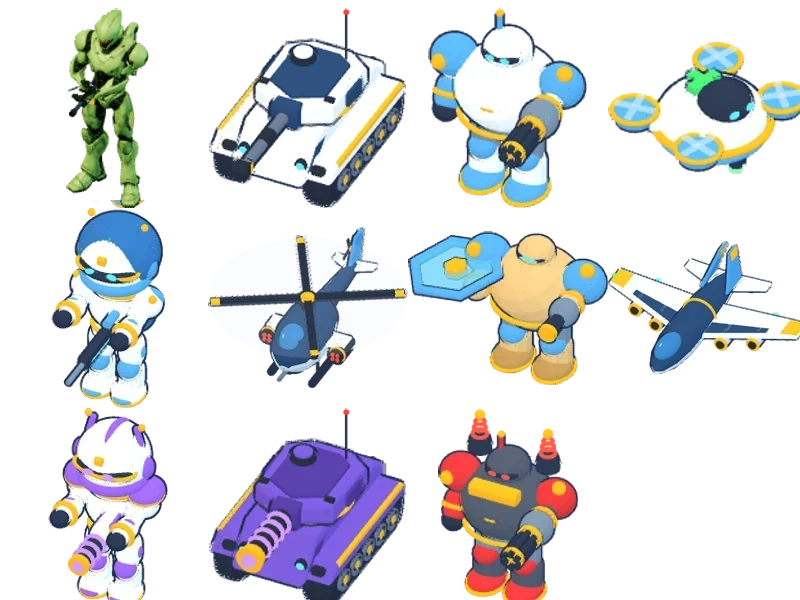
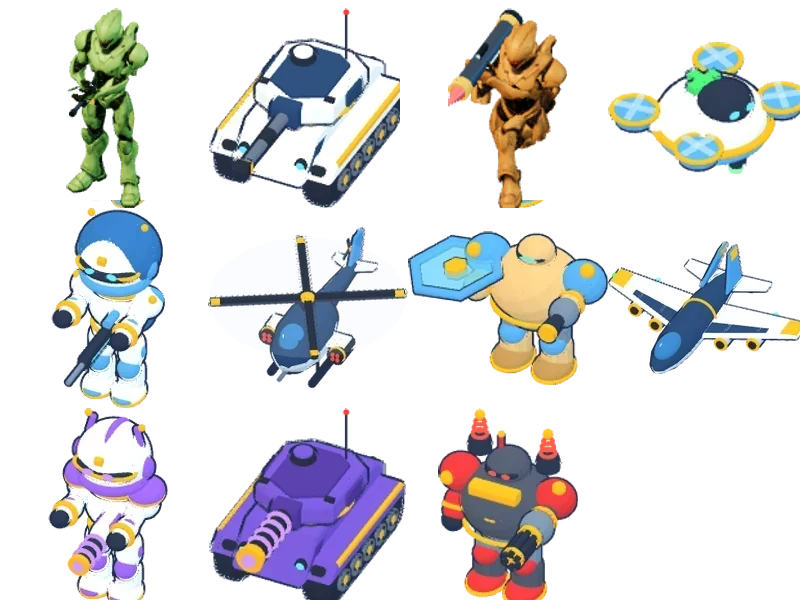
หุ่นรบ becomes an android rocket trooper: kneels to fire a shoulder launcher, rockets splash and hit ground and air, range 3.2 (patch 231)
Claude-Session: https://claude.ai/code/session_01ENEEn5GFJwhnH2TVtQL75A

Changed region(s): [[0.5, 0.0, 0.75, 0.36]]

diff --git a/features/render3d/rocket430/rocket3d.html b/features/render3d/rocket430/rocket3d.html
@@ -1,0 +1,82 @@
+<!doctype html><html><body style="margin:0;background:transparent">
+<canvas id="c" width="240" height="256"></canvas>
+<script type="importmap">{"imports":{"three":"/three/build/three.module.js","three/addons/":"/three/examples/jsm/"}}</script>
+<script type="module">
+// 430: หุ่นรบ = the owner's android as a rocket trooper (kneels to fire, rockets hit ground and air). Based on 402: ranger = the owner's android (rigged ATLAS-09 skeleton, staging/titan/forge/models/android-nova.glb)
+// carrying a modelled assault rifle. Same camera/lights/facing as units3d.html: unit faces local +x, yaw = -gridAngle.
+// Arms are placed on the rifle with two-bone IK after the clip pose (Sentinel idle, Walk, aim+recoil, Collapse).
+import * as T from 'three';import {GLTFLoader} from 'three/addons/loaders/GLTFLoader.js';
+const canvas=document.getElementById('c');
+const R=new T.WebGLRenderer({canvas,antialias:true,alpha:true,preserveDrawingBuffer:true});
+R.setClearColor(0,0);R.outputColorSpace=T.SRGBColorSpace;R.toneMapping=T.ACESFilmicToneMapping;R.toneMappingExposure=1.15;
+const S=new T.Scene();
+const cam=new T.OrthographicCamera(-1.6,1.6,2.35,-1.05,0.1,100);
+S.add(new T.HemisphereLight(0xfff6e8,0x5571a3,2.2));
+const sun=new T.DirectionalLight(0xfff0d6,3.4);sun.position.set(-3,10,7);S.add(sun);
+const rim=new T.DirectionalLight(0x9fe3ff,1.8);rim.position.set(7,3,-5);S.add(rim);
+const params=new URLSearchParams(location.search);
+const gltf=await new GLTFLoader().loadAsync(params.get('model'));
+const model=gltf.scene;const box=new T.Box3().setFromObject(model),size=box.getSize(new T.Vector3());
+const H=1.85,sc=H/size.y;model.scale.setScalar(sc);
+const wrap=new T.Group();wrap.rotation.y=Math.PI/2;S.add(wrap);wrap.add(model);
+const bones={};model.traverse(o=>{if(o.isBone)bones[o.name.replace(/[^a-zA-Z.]/g,'').replace('handL','hand.L')]=o;});
+const bn=n=>model.getObjectByName(n)||model.getObjectByName(T.PropertyBinding.sanitizeNodeName(n));
+const B={};for(const n of ['root','pelvis','chest','head','upper_arm.L','forearm.L','hand.L','upper_arm.R','forearm.R','hand.R','shoulder.L','shoulder.R','thigh.L','thigh.R'])B[n]=bn(n);
+window.boneNames=()=>Object.fromEntries(Object.entries(B).map(([k,v])=>[k,!!v]));
+let KF=+(params.get('kf')||0.5);let mat=null;model.traverse(o=>{if(o.isMesh){o.frustumCulled=false;mat=o.material;}});
+const tint=new T.Color(params.get('tint')||'#ff9f43');if(mat){mat.color.copy(tint);mat.roughness=Math.max(.35,mat.roughness||.6);}
+window.setTint=c=>{mat.color.set(c);};
+const mixer=new T.AnimationMixer(model);const clips={};for(const c of gltf.animations)clips[c.name]=c;
+// --- shoulder rocket launcher (chunky tube, visible warhead) ---
+const gun=new T.Group();const GM=new T.MeshStandardMaterial({color:0x4b5a6e,metalness:.55,roughness:.38}),GA=new T.MeshStandardMaterial({color:0xffb23e,metalness:.2,roughness:.45}),GD=new T.MeshStandardMaterial({color:0x26303c,metalness:.5,roughness:.5}),GL=new T.MeshBasicMaterial({color:0x7ff0ff}),WR=new T.MeshStandardMaterial({color:0xf2545b,metalness:.2,roughness:.4});
+const bx=(w,h,d,m,x,y,z)=>{const e=new T.Mesh(new T.BoxGeometry(w,h,d),m);e.position.set(x,y,z);gun.add(e);return e;};
+const cy=(r,l,m,x,y,z)=>{const e=new T.Mesh(new T.CylinderGeometry(r,r,l,20),m);e.rotation.x=Math.PI/2;e.position.set(x,y,z);gun.add(e);return e;};
+// launcher local: +z forward, +y up, origin at the shoulder rest
+cy(.075,.95,GM,0,0,.12);                 // main tube
+cy(.088,.10,GA,0,0,.58);                 // front ring (accent)
+cy(.088,.10,GA,0,0,-.33);                // rear ring (accent)
+cy(.095,.05,GD,0,0,-.38);                // rear bell
+const war=new T.Mesh(new T.ConeGeometry(.07,.2,18),WR);war.rotation.x=Math.PI/2;war.position.set(0,0,.72);gun.add(war); // rocket nose
+bx(.05,.12,.05,GD,0,-.11,.08);           // grip
+bx(.05,.10,.05,GD,0,-.10,.32);           // front grip
+bx(.04,.06,.14,GD,.0,.10,.18);           // sight box
+const lens=new T.Mesh(new T.CylinderGeometry(.02,.02,.01,12),GL);lens.rotation.x=Math.PI/2;lens.position.set(0,.10,.255);gun.add(lens);
+bx(.02,.02,.30,GL,.08,0,.1);             // glowing side strip
+const muzzle=new T.Object3D();muzzle.position.set(0,0,.82);gun.add(muzzle);
+const flash=new T.Mesh(new T.SphereGeometry(.1,14,10),new T.MeshBasicMaterial({color:0xffe08a,transparent:true,opacity:.95}));flash.visible=false;gun.add(flash);
+const gripR=new T.Object3D();gripR.position.set(0,-.17,.08);gun.add(gripR);const gripL=new T.Object3D();gripL.position.set(0,-.15,.32);gun.add(gripL);
+const GS=0.9;gun.scale.setScalar(GS);
+model.add(gun);// placed in model space every frame
+// --- two-bone IK (CCD, a few passes) ---
+const tmp=new T.Vector3(),tq=new T.Quaternion(),ta=new T.Vector3(),tb=new T.Vector3();
+function reach(chain,end,target,iters=12){for(let it=0;it<iters;it++){for(let i=chain.length-1;i>=0;i--){const j=chain[i];j.updateMatrixWorld(true);
+ const jp=j.getWorldPosition(new T.Vector3()),ep=end.getWorldPosition(new T.Vector3());ta.copy(ep).sub(jp).normalize();tb.copy(target).sub(jp).normalize();
+ const ang=Math.acos(Math.min(1,Math.max(-1,ta.dot(tb))));if(ang<1e-4)continue;const axis=new T.Vector3().crossVectors(ta,tb).normalize();
+ const wq=j.getWorldQuaternion(new T.Quaternion());const inv=wq.clone().invert();axis.applyQuaternion(inv);j.quaternion.multiply(tq.setFromAxisAngle(axis,Math.min(ang,.5)));j.updateMatrixWorld(true);}}}
+// hand ends: a point a little beyond the hand bone
+const endR=new T.Object3D(),endL=new T.Object3D();B['hand.R'].add(endR);B['hand.L'].add(endL);
+function placeGun(kind,rec){// gun pose relative to chest, in model space
+ model.updateMatrixWorld(true);const c=B.chest.getWorldPosition(new T.Vector3());const inv=model.matrixWorld.clone().invert();const cm=c.clone().applyMatrix4(inv);
+ const s=1/sc;// model units per world unit
+ if(kind==='aim'){const sh=B['upper_arm.R'].getWorldPosition(new T.Vector3()).applyMatrix4(inv);gun.position.set(sh.x+0.02*s,sh.y+0.07*s,sh.z+0.0*s-rec*0.08*s);gun.rotation.set(-0.12-rec*0.22,0,0);}
+ else if(kind==='carry'){const sh=B['upper_arm.R'].getWorldPosition(new T.Vector3()).applyMatrix4(inv);gun.position.set(sh.x+0.02*s,sh.y+0.06*s,sh.z-0.05*s);gun.rotation.set(-0.55,0,0);}
+ gun.scale.setScalar(GS*s);
+ model.updateMatrixWorld(true);
+ const gR=gripR.getWorldPosition(new T.Vector3()),gL=gripL.getWorldPosition(new T.Vector3());
+ reach([B['upper_arm.R'],B['forearm.R']],B['hand.R'],gR);reach([B['upper_arm.L'],B['forearm.L']],B['hand.L'],gL);}
+function clip(name,t){mixer.stopAllAction();const c=clips[name];if(!c)return;const a=mixer.clipAction(c);a.reset().play();a.paused=false;mixer.setTime(Math.min(c.duration*0.999,t*c.duration));}
+window.pose=(dirA,anim,f)=>{
+ wrap.rotation.y=Math.PI/2-dirA;wrap.rotation.z=0;wrap.position.set(0,0,0);flash.visible=false;gun.visible=true;
+ if(anim==='idle'){clip('Sentinel',f/4);placeGun('carry',0);}
+ else if(anim==='walk'){clip('Walk',f/8);placeGun('carry',0);}
+ else if(anim==='attack'){clip('KneelFire',KF);const rec=[0,1,.45,.12][f];placeGun('aim',rec);}// shot flash is drawn by the game
+ else if(anim==='death'){clip('Collapse',Math.min(1,f/4*0.95));B.root.position.x*=0.3;B.root.position.z*=0.3;placeGun('carry',0);gun.visible=f<3;}
+ wrap.updateMatrixWorld(true);model.updateMatrixWorld(true);
+ R.render(S,cam);const v=muzzle.getWorldPosition(new T.Vector3()),pv=v.clone().project(cam),o=new T.Vector3(0,0,0).project(cam);
+ return {img:canvas.toDataURL('image/png'),mx:(pv.x+1)/2*canvas.width,my:(1-pv.y)/2*canvas.height,ox:(o.x+1)/2*canvas.width,oy:(1-o.y)/2*canvas.height};
+};
+window.setZoom=z=>{cam.zoom=z;cam.position.set(10,16.04,10);cam.lookAt(0,0.9-(z-1)*1.7,0);cam.updateProjectionMatrix();};
+window.setZoom(+(params.get('zoom')||1.45));
+window.clipNames=()=>Object.keys(clips);
+window.setKF=v=>{KF=v;};window.ready=true;
+</script></body></html>

diff --git a/features/rocket430/rocket430.js b/features/rocket430/rocket430.js
@@ -1,0 +1,6 @@
+// 430: หุ่นรบ (kind 2) is now an android rocket trooper: kneels to fire a shoulder rocket launcher (KneelFire clip,
+// art from features/render3d/rocket430), rockets splash and hit both ground and air (weapon 'missile' passes canDamage285).
+// Range grows from melee 1.2 to 3.2 tiles; slower, heavier shots keep its damage per second about the same.
+U[2].weapon='missile';U[2].range=3.2;U[2].damage=56;U[2].rate=1.2;U[2].splash=.9;
+U[2].description=mt251('ย่อตัวยิงจรวด โจมตีได้ทั้งภาคพื้นและอากาศ','Kneels to fire rockets • hits ground and air');
+if(typeof unit3dKinds392!=='undefined'&&unit3dKinds392[2])unit3dKinds392[2].height=52;
